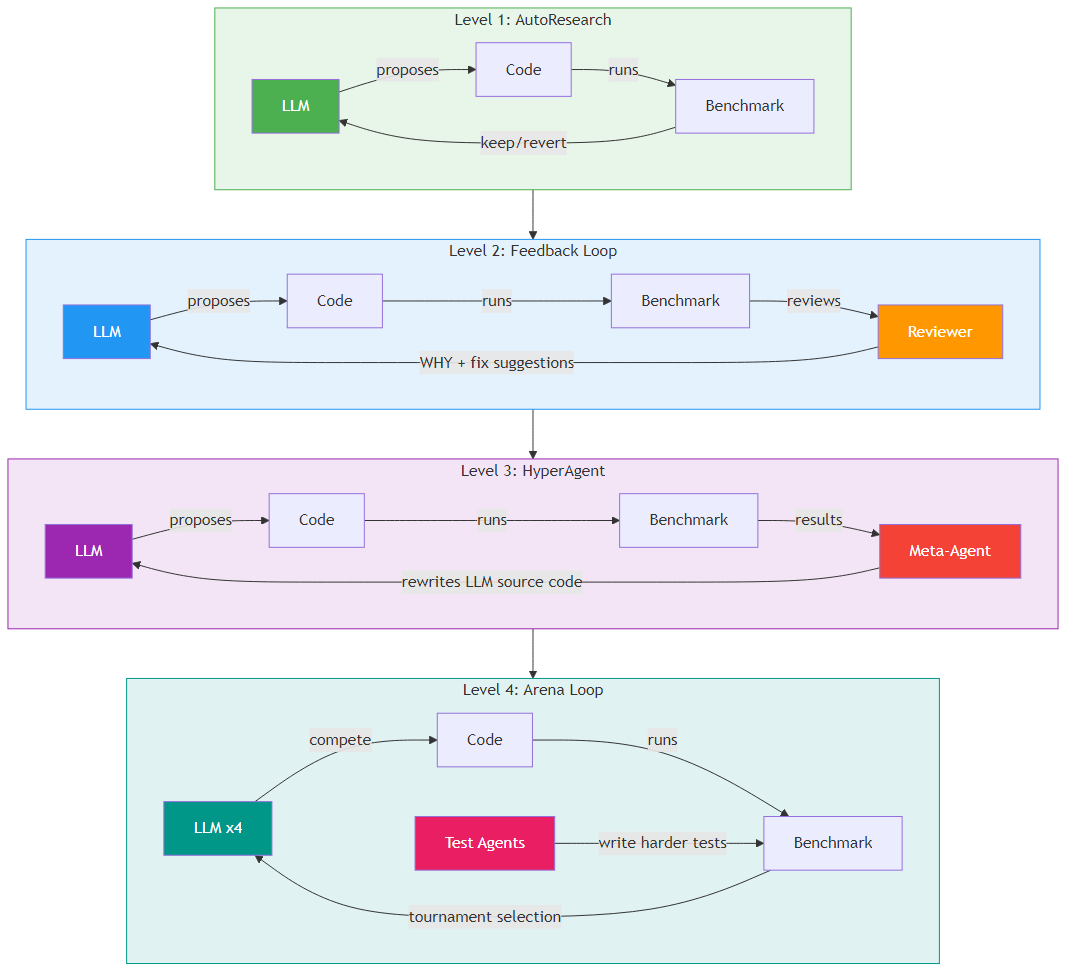
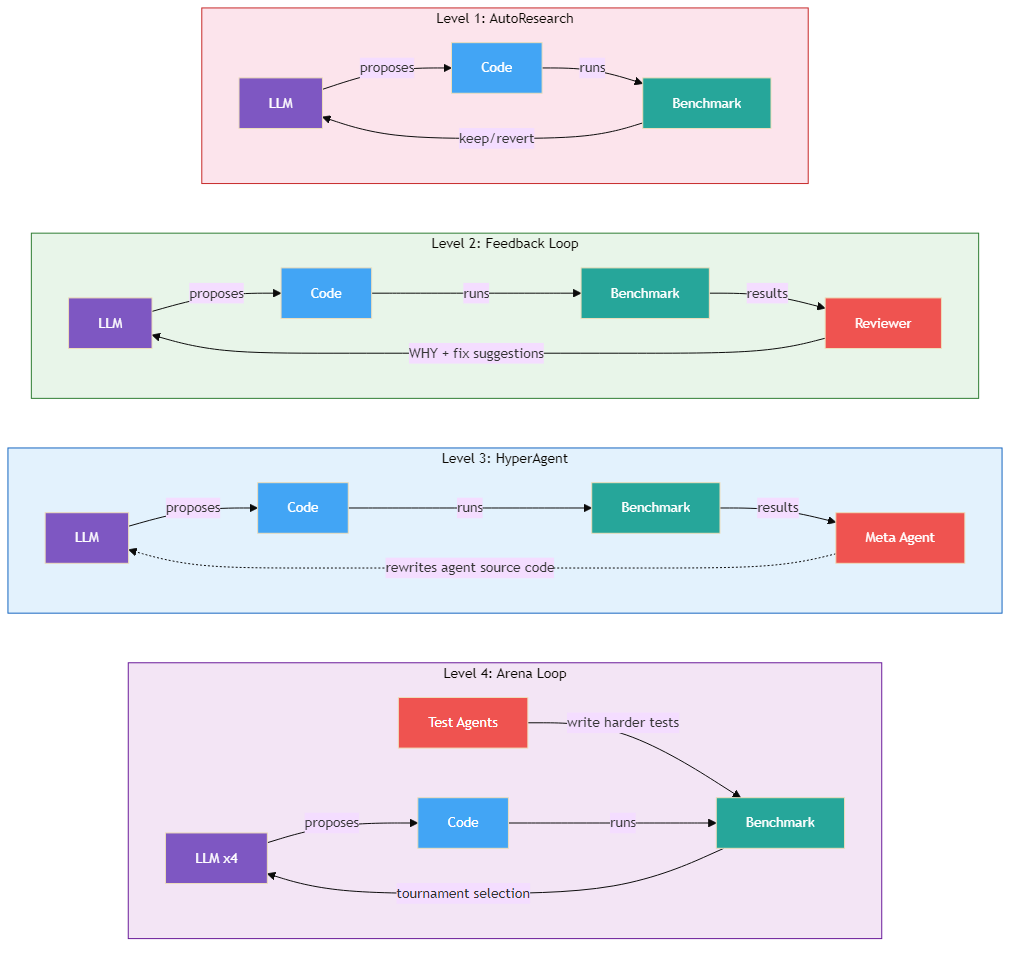
Split architecture diagram into per-level diagrams with fixes
- Fix Level 3 label: "rewrites agent source code" (not "LLM source code")
- Fix Level 1: show complete loop back to LLM
- Split single architecture.png into 4 per-level diagrams in README intro
- Add Mermaid source files (.mmd) for all diagrams

diff --git a/README.md b/README.md
@@ -7,11 +7,20 @@ Independent research comparing existing approaches to self-improving code agents
 and proposing new ones.
 
 - **Level 1:** LLM improves code against a benchmark (a la Karpathy's AutoResearch).
+
+![Level 1: AutoResearch Loop](assets/level1.png)
+
 - **Level 2:** A reviewer explains WHY it failed and suggests specific fixes (my contribution, built independently in Feb 2026 -- before AutoResearch and HyperAgents were published).
+
+![Level 2: Feedback Loop](assets/level2.png)
+
 - **Level 3:** The agent rewrites its own source code (inspired by Meta's HyperAgents).
+
+![Level 3: HyperAgent Loop](assets/level3.png)
+
 - **Level 4:** The agent rewrites its own code AND the benchmark itself evolves (my proposed next step).
 
-![Architecture](assets/architecture.png)
+![Level 4: Arena Loop](assets/level4.png)
 
 ---
 
